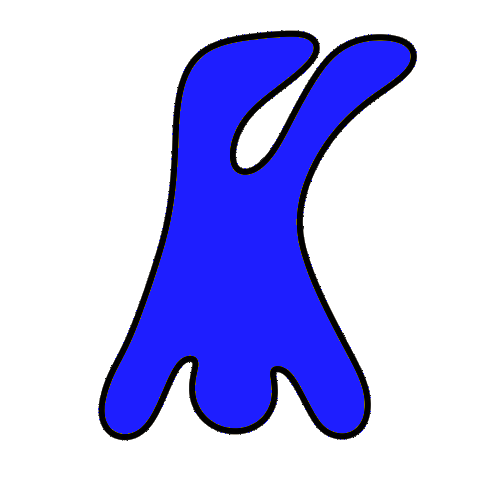
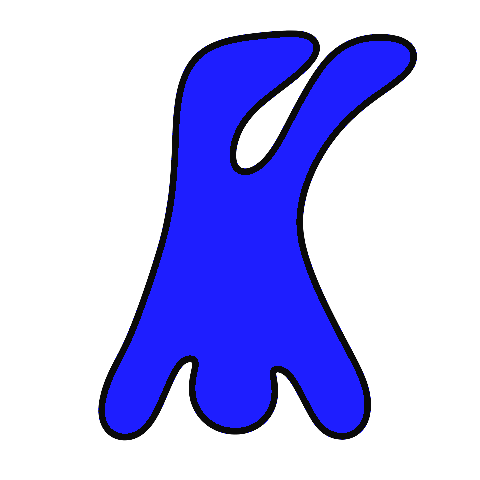
fix: small 체급 상향(0.42x·Medium), 피규어 가장자리 흰 잔픽셀 제거, CURRENTS 캡슐 패딩 대칭화

diff --git a/apps/web/src/styles.css b/apps/web/src/styles.css
@@ -240,9 +240,9 @@ button.danger:hover {
 }
 
 .t-small {
-  font-size: calc(var(--hero) * 0.2);
-  font-weight: 400;
-  letter-spacing: -0.01em;
+  font-size: calc(var(--hero) * 0.42);
+  font-weight: 500;
+  letter-spacing: -0.02em;
   text-transform: lowercase;
 }
 
@@ -270,8 +270,7 @@ button.danger:hover {
   font-size: var(--hero);
   border: 0.045em solid var(--text);
   border-radius: 999px;
-  /* 일부러 비대칭 패딩: 글자가 왼쪽 보더에 닿을 듯 */
-  padding: 0 0.48em 0.06em 0.13em;
+  padding: 0 0.24em 0.06em;
   line-height: 1.02;
   white-space: nowrap;
 }
